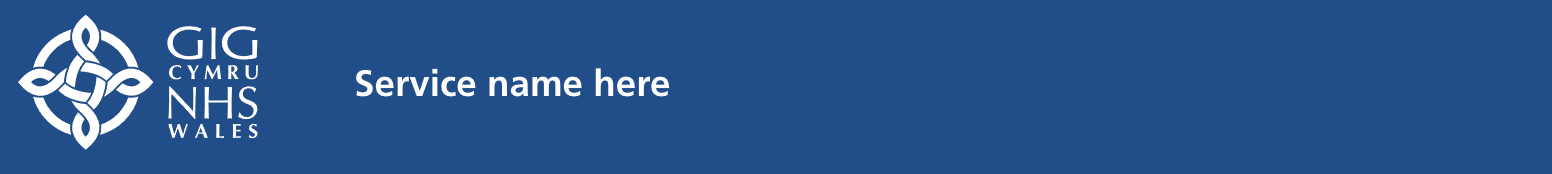
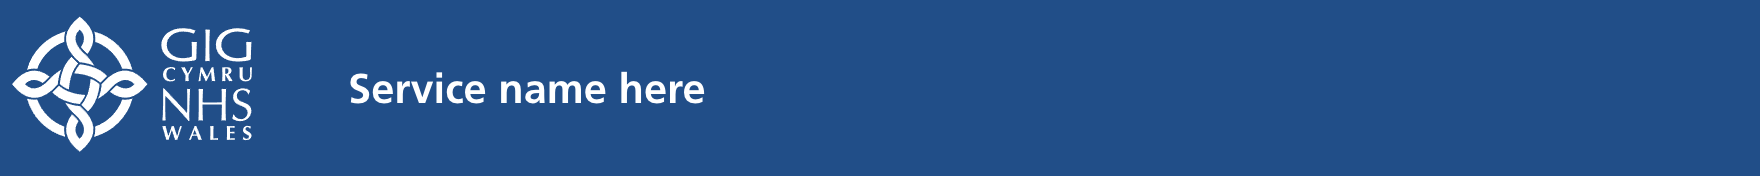
Updates in header and css

Changed region(s): [[0.0, 0.0862, 0.433, 0.8621]]

diff --git a/app/views/compenents-header-example-4.html b/app/views/compenents-header-example-4.html
@@ -10,7 +10,7 @@
     <link rel="apple-touch-icon" sizes="180x180" href="https://dhcw.nhs.wales//sites/NWISWalesNHSUK/images/apple-touch-icon.png">
     <link rel="icon" type="image/png" sizes="32x32" href="https://dhcw.nhs.wales//sites/NWISWalesNHSUK/images/favicon-32x32.png">
     <link rel="icon" type="image/png" sizes="16x16" href="https://dhcw.nhs.wales//sites/NWISWalesNHSUK/images/favicon-16x16.png">
-    <link rel="stylesheet" href="https://service-manual.nhs.uk/stylesheets/main.ce638a1.min.css"> 
+    <link rel="stylesheet" href="https://service-manual.nhs.uk/stylesheets/main.d5d3bb1.min.css"> 
     <script src="https://service-manual.nhs.uk/javascripts/main.1ffb5b9.min.js" defer=""></script>
     <script src="https://assets.adobedtm.com/launch-ENe7f6cdd7cc05409b86547d9153429788.min.js" type="text/plain" data-cookieconsent="statistics" async></script>
     <script>document.body.className = ((document.body.className) ? document.body.className + ' js-enabled' : 'js-enabled');</script>
@@ -27,7 +27,7 @@
             <img class="nav-large-image" src="images/NHS-Wales-Logo-White-01.svg" alt="NHS Wales | NHS Wales" style="width: 150;">
           </a> 
           <div class="nhsuk-header__container" style="padding-top: 50px;padding-bottom: 5px;margin-left: 0px;">
-            <span class="nhsuk-header__service-name" style="padding-left: 0px;font-size: 24;font-weight: 600;">Organisation slogan goes here<br>
+            <span class="nhsuk-header__service-name" style="padding-left: 0px;font-size: 26;font-weight: 600;">Organisation slogan goes here<br>
             <span class="nhsuk-header__service-name" style="padding-left: 0px;font-size: 15;font-weight: 600;">Organisation name</span></span>
           </div>
         </div>

diff --git a/app/views/compenents-header-example-2.html b/app/views/compenents-header-example-2.html
@@ -10,7 +10,7 @@
     <link rel="apple-touch-icon" sizes="180x180" href="https://dhcw.nhs.wales//sites/NWISWalesNHSUK/images/apple-touch-icon.png">
     <link rel="icon" type="image/png" sizes="32x32" href="https://dhcw.nhs.wales//sites/NWISWalesNHSUK/images/favicon-32x32.png">
     <link rel="icon" type="image/png" sizes="16x16" href="https://dhcw.nhs.wales//sites/NWISWalesNHSUK/images/favicon-16x16.png">
-    <link rel="stylesheet" href="https://service-manual.nhs.uk/stylesheets/main.ce638a1.min.css"> 
+    <link rel="stylesheet" href="https://service-manual.nhs.uk/stylesheets/main.d5d3bb1.min.css"> 
     <script src="https://service-manual.nhs.uk/javascripts/main.1ffb5b9.min.js" defer=""></script>
     <script src="https://assets.adobedtm.com/launch-ENe7f6cdd7cc05409b86547d9153429788.min.js" type="text/plain" data-cookieconsent="statistics" async></script>
     <script>document.body.className = ((document.body.className) ? document.body.className + ' js-enabled' : 'js-enabled');</script>
@@ -27,7 +27,7 @@
             <img class="nav-large-image" src="images/NHS-Wales-Logo-White-01.svg" alt="NHS Wales | NHS Wales" style="width: 150;">
           </a> 
           <div class="nhsuk-header__container" style="padding-top: 50px;padding-bottom: 5px;margin-left: 0px;">
-            <span class="nhsuk-header__service-name" style="padding-left: 0px;font-size: 23px;font-weight: 700;">Service name here</span>
+            <span class="nhsuk-header__service-name" style="padding-left: 0px;font-size: 26px;font-weight: 700;">Service name here</span>
           </div>
         </div>
 

diff --git a/app/views/compenents-header-example-3.html b/app/views/compenents-header-example-3.html
@@ -10,7 +10,7 @@
     <link rel="apple-touch-icon" sizes="180x180" href="https://dhcw.nhs.wales//sites/NWISWalesNHSUK/images/apple-touch-icon.png">
     <link rel="icon" type="image/png" sizes="32x32" href="https://dhcw.nhs.wales//sites/NWISWalesNHSUK/images/favicon-32x32.png">
     <link rel="icon" type="image/png" sizes="16x16" href="https://dhcw.nhs.wales//sites/NWISWalesNHSUK/images/favicon-16x16.png">
-    <link rel="stylesheet" href="https://service-manual.nhs.uk/stylesheets/main.ce638a1.min.css"> 
+    <link rel="stylesheet" href="https://service-manual.nhs.uk/stylesheets/main.d5d3bb1.min.css"> 
     <script src="https://service-manual.nhs.uk/javascripts/main.1ffb5b9.min.js" defer=""></script>
     <script src="https://assets.adobedtm.com/launch-ENe7f6cdd7cc05409b86547d9153429788.min.js" type="text/plain" data-cookieconsent="statistics" async></script>
     <script>document.body.className = ((document.body.className) ? document.body.className + ' js-enabled' : 'js-enabled');</script>
@@ -28,9 +28,11 @@
           </a> 
         </div>
 
-        <div style="margin-top: 26px;padding-left: 0px;width: 790;">
-          <span class="nhsuk-header__service-name" style="padding-left: 40px;font-size: 23px;font-weight: 700;">Service name here</span>
+        <div style="margin-top: 26px;padding-left: 80px;width: 790;">
+          <span class="nhsuk-header__service-name" style="padding-left: 0px;font-size: 26px;font-weight: 700;">Service name here</span>
         </div>
+
+        <div style="margin-top: 18px;padding-left: 0px;width: 150;"></div>
     
     </header>
 

diff --git a/app/views/compenents-header-example-6.html b/app/views/compenents-header-example-6.html
@@ -10,7 +10,7 @@
     <link rel="apple-touch-icon" sizes="180x180" href="https://dhcw.nhs.wales//sites/NWISWalesNHSUK/images/apple-touch-icon.png">
     <link rel="icon" type="image/png" sizes="32x32" href="https://dhcw.nhs.wales//sites/NWISWalesNHSUK/images/favicon-32x32.png">
     <link rel="icon" type="image/png" sizes="16x16" href="https://dhcw.nhs.wales//sites/NWISWalesNHSUK/images/favicon-16x16.png">
-    <link rel="stylesheet" href="https://service-manual.nhs.uk/stylesheets/main.ce638a1.min.css"> 
+    <link rel="stylesheet" href="https://service-manual.nhs.uk/stylesheets/main.d5d3bb1.min.css"> 
     <script src="https://service-manual.nhs.uk/javascripts/main.1ffb5b9.min.js" defer=""></script>
     <script src="https://assets.adobedtm.com/launch-ENe7f6cdd7cc05409b86547d9153429788.min.js" type="text/plain" data-cookieconsent="statistics" async></script>
     <script>document.body.className = ((document.body.className) ? document.body.className + ' js-enabled' : 'js-enabled');</script>
@@ -28,8 +28,8 @@
           </a> 
         </div>
 
-        <div style="margin-top: 26px;padding-left: 40px;width: 650;">
-          <span class="nhsuk-header__service-name" style="padding-left: 40px;font-size: 23px;font-weight: 700;">Service name here</span>
+        <div style="margin-top: 26px;padding-left: 10px;width: 650;">
+          <span class="nhsuk-header__service-name" style="padding-left: 0px;font-size: 26px;font-weight: 700;">Service name here</span>
         </div>
 
         <div style="margin-top: 18px;padding-left: 0px;width: 150;">

diff --git a/app/views/includes/head.html b/app/views/includes/head.html
@@ -6,11 +6,9 @@
     <meta name="description" content="Design and build digital services for the NHS. Things you need to make consistent, usable services that put people first.">
     <title>NHS digital service manual</title>
     <link rel="stylesheet" href="/sass/nhs_wales.css">
-    <link rel="stylesheet" href="https://service-manual.nhs.uk/stylesheets/main.ce638a1.min.css"> 
-    <script src="https://service-manual.nhs.uk/javascripts/main.1ffb5b9.min.js" defer=""></script>
+    <link rel="stylesheet" href="https://service-manual.nhs.uk/stylesheets/main.d5d3bb1.min.css"> 
+    <script src="https://service-manual.nhs.uk/javascripts/main.c5e0baa.min.js" defer=""></script>
     <script src="https://assets.adobedtm.com/launch-ENe7f6cdd7cc05409b86547d9153429788.min.js" type="text/plain" data-cookieconsent="statistics" async></script>
-    <!-- Cookie consent -->
-    <script src="/js/cookies.min.js" data-policy-url="/cookie-policy" defer=""></script>
     <!-- Adobe Analytics -->
     <!-- Data Layer -->
     <script>

diff --git a/app/views/compenents-header-example-1.html b/app/views/compenents-header-example-1.html
@@ -10,7 +10,7 @@
     <link rel="apple-touch-icon" sizes="180x180" href="https://dhcw.nhs.wales//sites/NWISWalesNHSUK/images/apple-touch-icon.png">
     <link rel="icon" type="image/png" sizes="32x32" href="https://dhcw.nhs.wales//sites/NWISWalesNHSUK/images/favicon-32x32.png">
     <link rel="icon" type="image/png" sizes="16x16" href="https://dhcw.nhs.wales//sites/NWISWalesNHSUK/images/favicon-16x16.png">
-    <link rel="stylesheet" href="https://service-manual.nhs.uk/stylesheets/main.ce638a1.min.css"> 
+    <link rel="stylesheet" href="https://service-manual.nhs.uk/stylesheets/main.d5d3bb1.min.css"> 
     <script src="https://service-manual.nhs.uk/javascripts/main.1ffb5b9.min.js" defer=""></script>
     <script src="https://assets.adobedtm.com/launch-ENe7f6cdd7cc05409b86547d9153429788.min.js" type="text/plain" data-cookieconsent="statistics" async></script>
     <script>document.body.className = ((document.body.className) ? document.body.className + ' js-enabled' : 'js-enabled');</script>

diff --git a/app/views/compenents-header-example-5.html b/app/views/compenents-header-example-5.html
@@ -10,7 +10,7 @@
     <link rel="apple-touch-icon" sizes="180x180" href="https://dhcw.nhs.wales//sites/NWISWalesNHSUK/images/apple-touch-icon.png">
     <link rel="icon" type="image/png" sizes="32x32" href="https://dhcw.nhs.wales//sites/NWISWalesNHSUK/images/favicon-32x32.png">
     <link rel="icon" type="image/png" sizes="16x16" href="https://dhcw.nhs.wales//sites/NWISWalesNHSUK/images/favicon-16x16.png">
-    <link rel="stylesheet" href="https://service-manual.nhs.uk/stylesheets/main.ce638a1.min.css"> 
+    <link rel="stylesheet" href="https://service-manual.nhs.uk/stylesheets/main.d5d3bb1.min.css"> 
     <script src="https://service-manual.nhs.uk/javascripts/main.1ffb5b9.min.js" defer=""></script>
     <script src="https://assets.adobedtm.com/launch-ENe7f6cdd7cc05409b86547d9153429788.min.js" type="text/plain" data-cookieconsent="statistics" async></script>
     <script>document.body.className = ((document.body.className) ? document.body.className + ' js-enabled' : 'js-enabled');</script>

diff --git a/app/views/test.html b/app/views/test.html
@@ -8,8 +8,6 @@
     <title>NHS digital service manual</title>
     <link rel="stylesheet" href="/css/main.css">
     <script src="/js/main.min.js" defer=""></script>
-    <!-- Cookie consent -->
-    <script src="/js/cookies.min.js" data-policy-url="/cookie-policy" defer=""></script>
     <!-- Adobe Analytics -->
     <!-- Data Layer -->
     <script>
